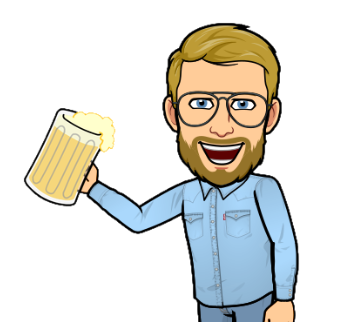
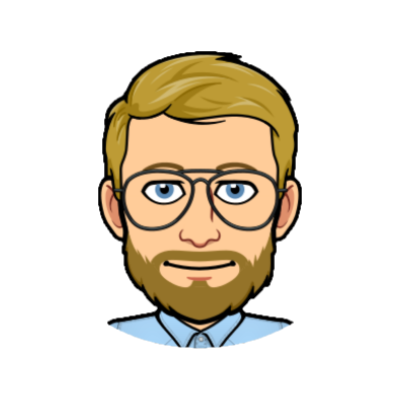
Update login + location list + edit location

diff --git a/MistralEventFront/src/app/components/create-location/create-location.component.ts b/MistralEventFront/src/app/components/create-location/create-location.component.ts
@@ -1,8 +1,9 @@
 import { Component, OnInit } from '@angular/core';
 import { FormControl, FormGroup } from '@angular/forms';
 import { Validators } from '@angular/forms';
-import { faTimes, faSave } from '@fortawesome/free-solid-svg-icons';
+import { faTimes, faSave, faImage, faImages } from '@fortawesome/free-solid-svg-icons';
 import { NgbActiveModal, NgbModal } from '@ng-bootstrap/ng-bootstrap';
+import { ActivatedRoute, Router, RouterModule } from '@angular/router';
 
 // Services
 import { LocationService } from 'src/app/services/location.service';
@@ -25,6 +26,8 @@ export class CreateLocationComponent implements OnInit {
 
   saveIcon = faSave;
   cancelIcon = faTimes;
+  pictureIcon = faImages;
+  avatarIcon = faImage;
 
   name = new FormControl('', Validators.required)
   streetAddress = new FormControl('', Validators.required)
@@ -36,9 +39,14 @@ export class CreateLocationComponent implements OnInit {
     city: this.city,
   });
 
-  constructor(private locationService: LocationService, public editedLocation: EditedLocationService, public uploadService: UploadService, private modalService: NgbModal) { }
+  constructor(private locationService: LocationService, public editedLocation: EditedLocationService, public uploadService: UploadService, private modalService: NgbModal, private router: Router) { }
 
   ngOnInit(): void {
+    if (this.editedLocation.location != null) {
+      this.name.setValue(this.editedLocation.location.name);
+      this.streetAddress.setValue(this.editedLocation.location.adress);
+      this.city.setValue(this.editedLocation.location.city);
+    }
   }
 
   onSubmit() {
@@ -47,13 +55,32 @@ export class CreateLocationComponent implements OnInit {
       adress: this.streetAddress.value,
       city: this.city.value
     }
-    this.locationService.addLocation(location).subscribe(result => alert(JSON.stringify(result)))
-    this.locationService.getAllLocations().subscribe(result => alert(JSON.stringify(result)))
+    if (this.editedLocation.location != null) {
+      location.id = this.editedLocation.location.id;
+    }
+    //this.locationService.addLocation(location).subscribe(result => alert(JSON.stringify(result)))
+    //this.locationService.getAllLocations().subscribe(result => alert(JSON.stringify(result)))
+    this.locationService.addLocation(location).subscribe(result => this.cancel())
   }
 
   openAvatarUpload() {
-    this.uploadService.type_file = this.uploadService.TYPE_AVATAR;
-    const modalRef = this.modalService.open(FileUploadComponent);
+    const location: Location = {
+      name: this.name.value,
+      adress: this.streetAddress.value,
+      city: this.city.value
+    }
+    if (this.editedLocation.location != null) {
+      location.id = this.editedLocation.location.id;
+    }
+
+    this.locationService.addLocation(location).subscribe(result => {
+      this.uploadService.type_file = this.uploadService.TYPE_LOCATION;
+      const modalRef = this.modalService.open(FileUploadComponent);
+    })
+    
   }
 
+  cancel() {
+    this.router.navigate(['/home/locations']);
+  }
 }

diff --git a/MistralEventFront/src/app/components/create-location/create-location.component.html b/MistralEventFront/src/app/components/create-location/create-location.component.html
@@ -1,18 +1,5 @@
 <div class="main-screen">
     <div class="container">
-        
-        <!-- Affichage avatar + possibilité d'uploader une nouvelle image -->
-        <div class="row">
-            <div class="col-xs-12 col-sm-6  col-md-4 col-lg-4 col-xl-3 col-xxl-3" style="text-align: center;">
-                <div class="profilSidebar">
-                    <img  [src]='editedLocation.avatar64' alt="Photo de profil">
-                  </div>
-                <!--<img src="https://uifaces.co/our-content/donated/yn7PKqTT.jpg" alt="Avatar" class="avatar profile-avatar" />-->
-                <button type="button" class="btn btn-link change-avatar-btn" (click)="openAvatarUpload()">Changer votre avatar</button>
-            </div>
-            <div class="col-xs-12 col-sm-6  col-md-8 col-lg-8 col-xl-9 col-xxl-9" style="text-align: right;">
-            </div>
-        </div>
 
         <div class="card">
             <form role="form" [formGroup]="form" (submit)="onSubmit()">
@@ -41,9 +28,45 @@
 
                 <div class="card-footer">
                     <button type="submit" class="btn btn-primary" [disabled]="!form.valid"><fa-icon [icon]="saveIcon"></fa-icon>&nbsp;Enregistrer</button>
-                    <button class="btn btn-danger" ><fa-icon [icon]="cancelIcon"></fa-icon>&nbsp;Annuler</button>
+                    <button class="btn btn-danger" style="margin-left: 10px;" (click)="cancel()"><fa-icon [icon]="cancelIcon"></fa-icon>&nbsp;Annuler</button>
                 </div>
             </form>
+        </div>
+
+        <div class="m-5"></div>
+
+        <div class="card">
+            <div class="card-header">
+                Image de l'adresse
+            </div>
+            
+            <div class="card-body card-body-avatar">
+                <img  [src]='editedLocation.avatar64' class="img-location" >
+            </div>
+            <div class="card-footer">
+                <button type="button" class="btn btn-primary" (click)="openAvatarUpload()" [disabled]="!form.valid"><fa-icon [icon]="avatarIcon"></fa-icon>&nbsp;Changer l'image</button>
+            </div>
+        </div>
+
+        <div class="m-5"></div>
+        
+        <div class="card">
+            <div class="card-header">
+                Photos attachées
+            </div>
+            
+            <div class="card-body">
+                <div class="row">
+                    <div class="col-xs-12 col-sm-12  col-md-6 col-lg-6 col-xl-4 col-xxl-4">
+                        <a>
+                            <img src="https://www.maisondesvinsdulanguedoc.com/_objets/imgbk/libre/menu-et-carte-cabiron-1592930396-3420.jpg" class="img-thumbnail" alt="Image 1" />
+                        </a>
+                    </div>
+                </div>
+            </div>
+            <div class="card-footer">
+                <button type="button" class="btn btn-primary" (click)="openAvatarUpload()" [disabled]="!form.valid"><fa-icon [icon]="pictureIcon"></fa-icon>&nbsp;Ajouter une photo</button>
+            </div>
         </div>
     </div>
 </div>

diff --git a/MistralEventFront/src/app/components/locations/locations.component.ts b/MistralEventFront/src/app/components/locations/locations.component.ts
@@ -1,6 +1,7 @@
 import { Component, OnInit } from '@angular/core';
 import { faPlus, faImages, faTrash, faPen } from '@fortawesome/free-solid-svg-icons';
 import { NgbActiveModal, NgbModal } from '@ng-bootstrap/ng-bootstrap';
+import { ActivatedRoute, Router, RouterModule } from '@angular/router';
 
 // Modèles
 import { Location } from 'src/app/models/location';
@@ -10,8 +11,8 @@ import { GalleryLocationComponent } from '../gallery-location/gallery-location.c
 
 // Services
 import { LocationService } from '../../services/location.service';
-import { ActivatedRoute, Router, RouterModule } from '@angular/router';
 import { GalleryLocationService } from '../../services/gallery-location.service';
+import { EditedLocationService } from 'src/app/services/edited-location.service';
 
 @Component({
   selector: 'app-locations',
@@ -27,24 +28,35 @@ export class LocationsComponent implements OnInit {
   listLocations: Location[] = [];
   location: Location;
 
-  constructor(private locationService: LocationService, private galleryLocationService: GalleryLocationService, private modalService: NgbModal, private router: Router) { }
+  constructor(private locationService: LocationService, public editedLocation: EditedLocationService, private modalService: NgbModal, private router: Router) { }
 
   ngOnInit(): void {
     this.locationService.getAllLocations().subscribe((data: Location[]) => {
+      alert(JSON.stringify(data))
       this.listLocations = data;
     })
   }
-  deleteLocation(id): void {
-    this.locationService.deleteLocationById(id).subscribe(then => {
+  deleteLocation(location: Location): void {
+    this.locationService.deleteLocationById(location).subscribe(then => {
       this.locationService.getAllLocations().subscribe((data: Location[]) => {
         this.listLocations = data;
       });
-      this.router.navigate(['/home']);
+      this.router.navigate(['/home/locations']);
     });
   }
 
   showGallery(location: Location) {
-    this.galleryLocationService.location = location;
+    this.editedLocation.loadLocation(location);
     const modalRef = this.modalService.open(GalleryLocationComponent, { size: 'lg', backdrop: 'static' });
+  }
+
+  newLocation() {
+    this.editedLocation.loadLocation(null);
+    this.router.navigate(['/home/create-location']);
+  }
+
+  openLocation(location: Location) {
+    this.editedLocation.loadLocation(location);
+    this.router.navigate(['/home/create-location']);
   }
 }

diff --git a/MistralEventFront/src/app/components/locations/locations.component.html b/MistralEventFront/src/app/components/locations/locations.component.html
@@ -7,6 +7,7 @@
           <tr>
             <th scope="col">Nom du lieu</th>
             <th scope="col">Adresse</th>
+            <th scope="col">Ville</th>
             <th scope="col"></th>
             <th scope="col"></th>
             <th scope="col"></th>
@@ -16,6 +17,7 @@
           <tr *ngFor="let location of listLocations">
             <td scope="row" >{{ location.name}} </td>
             <td scope="row">{{ location.adress}}</td>
+            <td scope="row">{{ location.city}}</td>
             <td scope="row">
               <a class="galleryLocation" (click)="showGallery(location)">
                 <button class="btn btn-primary">
@@ -24,14 +26,14 @@
               </a>
             </td>
             <td scope="row">
-              <a class="editLocation" (click)="showGallery(location)">
+              <a class="editLocation" (click)="openLocation(location)">
                 <button class="btn btn-success">
                   <fa-icon [icon]="editIcon"></fa-icon>
                 </button>
               </a>
             </td>
             <td scope="row">
-              <a class="deleteLocation" (click)="deleteLocation(location.id)">
+              <a class="deleteLocation" (click)="deleteLocation(location)">
                   <button class="btn btn-danger">
                     <fa-icon [icon]="deleteIcon"></fa-icon>
                   </button>
@@ -43,7 +45,9 @@
     <div class="tableDiv">
 
       <div class="addButtonDiv">
-        <a [routerLink]="['/home', 'create-location']" routerLinkActive="active-link" class="btn btn-success addButton"> 
-          <fa-icon [icon]="plusIcon" class="mx-auto plusIcon"></fa-icon> </a>
+        <!--<a [routerLink]="['/home', 'create-location']" routerLinkActive="active-link" class="btn btn-success addButton"> -->
+        <a (click)="newLocation()" class="btn btn-success addButton">
+          <fa-icon [icon]="plusIcon" class="mx-auto plusIcon"></fa-icon>
+        </a>
       </div>
 </div>

diff --git a/MistralEventFront/src/app/components/create-location/create-location.component.scss b/MistralEventFront/src/app/components/create-location/create-location.component.scss
@@ -7,6 +7,37 @@
     font-size: 0.8rem;
 }
 
+.card-body-avatar {
+    text-align: center;
+}
+
+@media screen and (max-width: 576px) {
+    .profile-title {
+        width: 100%;
+        text-align: center;
+        margin-top: 10px;
+    }
+    .profile-mail {
+        width: 100%;
+        text-align: center;
+    }
+}
+@media screen and (min-width: 576px) and (max-width: 767px) {
+    .img-location {
+        width: 100%;
+    }
+}
+@media screen and (min-width: 768px) and (max-width: 992px) {
+    .img-location {
+        width: 75%;
+    }
+}
+@media screen and (min-width: 992px) {
+    .img-location {
+        width: 50%;
+    }
+}
+
 .card-footer {
     text-align: right;
 }

diff --git a/MistralEventFront/src/app/components/gallery-location/gallery-location.component.html b/MistralEventFront/src/app/components/gallery-location/gallery-location.component.html
@@ -13,12 +13,6 @@
                     <img src="https://www.maisondesvinsdulanguedoc.com/_objets/imgbk/libre/menu-et-carte-cabiron-1592930396-3420.jpg" class="img-thumbnail" alt="Image 1" />
                 </a>
             </div>
-
-            <div class="col-xs-12 col-sm-12  col-md-6 col-lg-6 col-xl-4 col-xxl-4">
-                <a (click)="displayImage()">
-                    <img src="https://www.maisondesvinsdulanguedoc.com/_objets/imgbk/libre/menu-et-carte-cabiron-1592930396-3420.jpg" class="img-thumbnail" alt="Image 1" />
-                </a>
-            </div>
         </div>
     </div>
 </div>

diff --git a/MistralEventFront/src/app/services/edited-location.service.ts b/MistralEventFront/src/app/services/edited-location.service.ts
@@ -17,13 +17,16 @@ import { Location } from '../models/location';
     location: Location = null;
     avatar64: String;
 
-    constructor(private http:HttpClient) { }
+    constructor(private http:HttpClient) {
+        this.avatar64 = this.avatar64_default;
+    }
 
     loadLocation(location: Location) {
         if (location == null) {
-            this.location = location;
-        } else {
             this.location = null;
+            this.avatar64 = this.avatar64_default;
+        } else {
+            this.location = location;
             this.avatar64 = this.avatar64_default;
         }
     }

diff --git a/MistralEventFront/src/app/components/login/login.component.html b/MistralEventFront/src/app/components/login/login.component.html
@@ -32,6 +32,9 @@
                         <button [disabled]="formLogin.invalid" type="submit" class="btn  btn-success "><i
                                 class="fas fa-sign-in-alt"></i> Connexion</button>
                     </div>
+                    
+                    <div class="m-2"></div>
+
                     <div class="form-group">
                         <div class="col-md-12 control pwdo" style="text-align: center;">
                             <a [routerLink]="['/home', 'agenda']" onClick="$('#loginbox').hide(); $('#signupbox').show()">Mot de passe oublié?</a>

diff --git a/MistralEventFront/src/app/components/credit/credit.component.html b/MistralEventFront/src/app/components/credit/credit.component.html
@@ -18,7 +18,7 @@
                                 <tr>
                                     <td style="width: 50%;">
                                         <div class="credit-avatar">
-                                            <img src="../../../assets/images/Anthony.png" alt="Photo de profil">
+                                            <img src="../../../assets/images/Anthony_Fun.png" alt="Photo de profil">
                                         </div>
                                     </td>
                                     <td style="width: 50%;">

diff --git a/MistralEventFront/src/app/components/login/login.component.scss b/MistralEventFront/src/app/components/login/login.component.scss
@@ -6,7 +6,7 @@
     width: 100%;
     min-height: 100%;
     padding: 20px;
-    background-image: url('../../../assets/images/auvergne.jpg');
+    background-image: url('../../../assets/images/login_wallpaper.jpg');
     background-position: center;
     background-repeat: no-repeat;
     background-size: cover;
